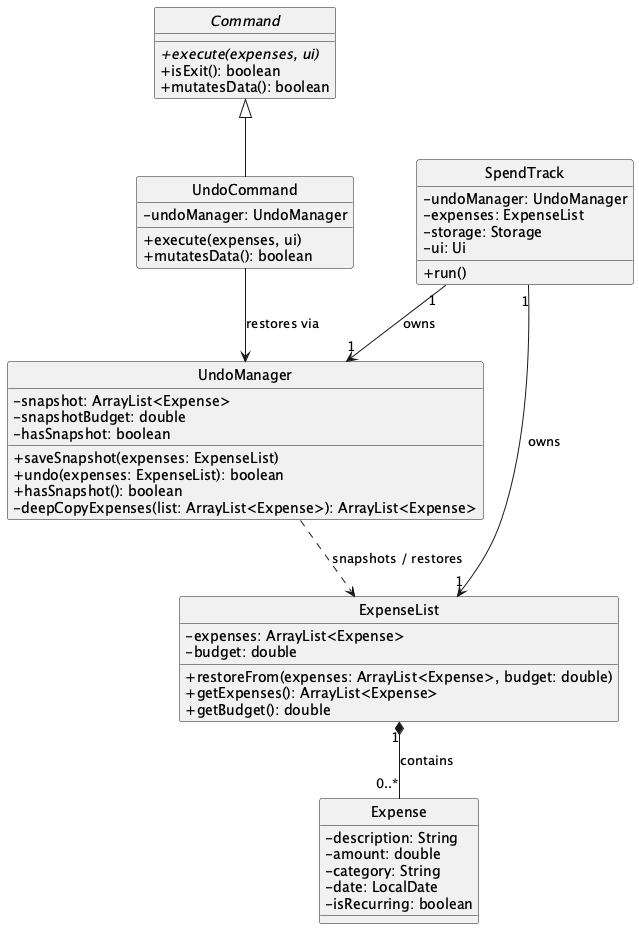
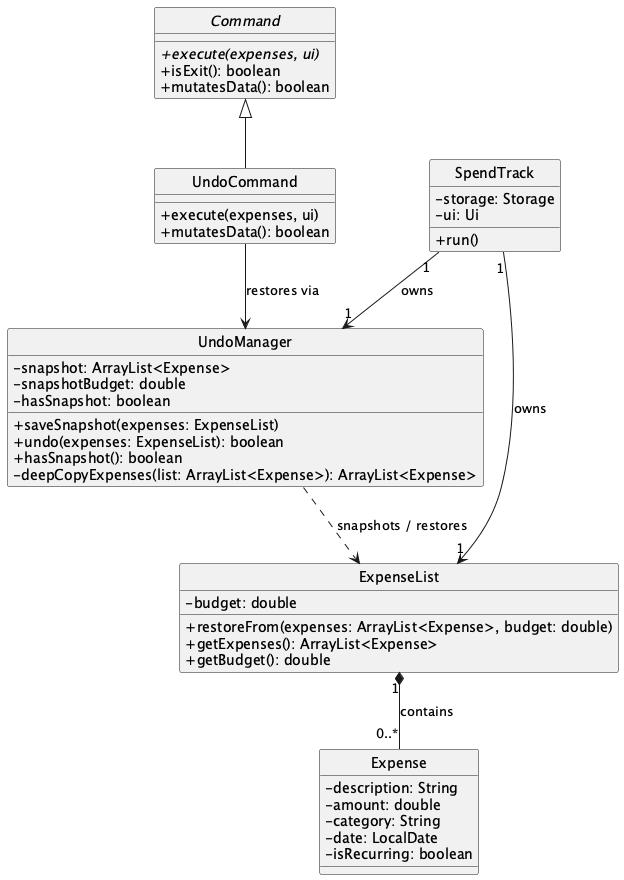
fix: PE-D bug fixes for undo, parser, clear, UG, and UML diagrams
Fix undo stack corruption (#199, #202, #230):
- Add backup/rollback to UndoManager so failed or cancelled commands
  don't overwrite the undo snapshot
- Track whether ClearCommand actually cleared via didClear() flag
- Rollback undo state on SpendTrackException in main loop

Fix input validation (#212, #213):
- Reject extra parameters on total, clear, and undo commands
- ClearCommand now rejects non-yes/no confirmation input

Fix UG documentation (#214, #222):
- Update clear command example to match actual app output

Fix UML diagrams (#145, #146, #155):
- Add <<class>> stereotype to static classes in sequence diagrams
- Remove double-counted associations in UndoClassDiagram
- Add missing activation bars and return arrows in sequence diagrams
- Regenerate affected PNGs

Changed region(s): [[0.0, 0.0, 1.0, 1.0], [0.7917, 0.4295, 0.883, 0.5523]]

diff --git a/src/main/java/seedu/duke/UndoManager.java b/src/main/java/seedu/duke/UndoManager.java
@@ -23,6 +23,12 @@ public class UndoManager {
     // @@author
     private boolean hasSnapshot;
 
+    private ArrayList<Expense> backupSnapshot;
+    private double backupBudget;
+    private ArrayList<String> backupBudgetHistory;
+    private boolean backupHasSnapshot;
+    private boolean hasBackup;
+
     /**
      * Constructs an UndoManager with no stored snapshot.
      */
@@ -33,6 +39,7 @@ public class UndoManager {
         this.snapshotBudgetHistory = null;
         // @@author
         this.hasSnapshot = false;
+        this.hasBackup = false;
     }
 
     /**
@@ -88,6 +95,33 @@ public class UndoManager {
      */
     public boolean hasSnapshot() {
         return hasSnapshot;
+    }
+
+    /**
+     * Backs up the current undo state so it can be restored if a command fails
+     * or does not actually mutate data.
+     */
+    public void backupState() {
+        backupSnapshot = snapshot;
+        backupBudget = snapshotBudget;
+        backupBudgetHistory = snapshotBudgetHistory;
+        backupHasSnapshot = hasSnapshot;
+        hasBackup = true;
+    }
+
+    /**
+     * Restores the undo state from the backup taken by {@link #backupState()}.
+     * Used when a command fails or does not actually mutate data.
+     */
+    public void rollbackState() {
+        if (!hasBackup) {
+            return;
+        }
+        snapshot = backupSnapshot;
+        snapshotBudget = backupBudget;
+        snapshotBudgetHistory = backupBudgetHistory;
+        hasSnapshot = backupHasSnapshot;
+        hasBackup = false;
     }
 
     private ArrayList<Expense> deepCopyExpenses(ArrayList<Expense> original) {

diff --git a/src/main/java/seedu/duke/command/ClearCommand.java b/src/main/java/seedu/duke/command/ClearCommand.java
@@ -17,6 +17,17 @@ public class ClearCommand extends Command {
         logger.setUseParentHandlers(false);
     }
 
+    private boolean cleared = false;
+
+    /**
+     * Returns true if this command actually cleared the expense list.
+     *
+     * @return true if expenses were cleared, false if cancelled or list was empty
+     */
+    public boolean didClear() {
+        return cleared;
+    }
+
     /**
      * Executes the clear command by prompting for confirmation, then removing all expenses.
      *
@@ -42,11 +53,15 @@ public class ClearCommand extends Command {
         if (confirmation.equalsIgnoreCase("yes")) {
             int count = expenses.size();
             expenses.clearAll();
+            cleared = true;
             ui.showMessage("All expenses cleared. (" + count + " expense(s) removed)");
             logger.info("All " + count + " expenses cleared.");
-        } else {
+        } else if (confirmation.equalsIgnoreCase("no")) {
             ui.showMessage("Clear cancelled.");
             logger.info("Clear cancelled by user.");
+        } else {
+            ui.showMessage("Invalid input. Please type 'yes' or 'no'. Clear cancelled.");
+            logger.info("Clear cancelled due to invalid input: " + confirmation);
         }
     }
 

diff --git a/src/main/java/seedu/duke/SpendTrack.java b/src/main/java/seedu/duke/SpendTrack.java
@@ -2,6 +2,7 @@ package seedu.duke;
 
 import java.util.logging.Logger;
 
+import seedu.duke.command.ClearCommand;
 import seedu.duke.command.Command;
 
 /**
@@ -47,15 +48,19 @@ public class SpendTrack {
                 Command command = Parser.parse(input, undoManager);
                 if (command.mutatesData() && !(command instanceof
                         seedu.duke.command.UndoCommand)) {
+                    undoManager.backupState();
                     undoManager.saveSnapshot(expenses);
                 }
-                // @@author
                 command.execute(expenses, ui);
-                if (command.mutatesData()) {
+                if (command instanceof ClearCommand && !((ClearCommand) command).didClear()) {
+                    undoManager.rollbackState();
+                } else if (command.mutatesData()) {
                     storage.save(expenses);
                 }
+                // @@author
                 isRunning = !command.isExit();
             } catch (SpendTrackException e) {
+                undoManager.rollbackState();
                 logger.warning("SpendTrackException caught: " + e.getMessage());
                 ui.showError(e.getMessage());
             }

diff --git a/src/main/java/seedu/duke/Parser.java b/src/main/java/seedu/duke/Parser.java
@@ -104,6 +104,9 @@ public class Parser {
         case "find":
             return parseFindCommand(parts.length > 1 ? parts[1] : "");
         case "total":
+            if (parts.length > 1) {
+                throw new SpendTrackException("Usage: total");
+            }
             return new TotalCommand();
         // @@author AbhijitBalajee
         case "list":
@@ -128,6 +131,9 @@ public class Parser {
         case "goal":
             return parseGoalCommand(parts.length > 1 ? parts[1] : "");
         case "clear":
+            if (parts.length > 1) {
+                throw new SpendTrackException("Usage: clear");
+            }
             return new ClearCommand();
         case "export":
             if (parts.length > 1 && parts[1].trim().equalsIgnoreCase("csv")) {
@@ -136,6 +142,9 @@ public class Parser {
             throw new SpendTrackException("Usage: export csv");
         // @@author
         case "undo":
+            if (parts.length > 1) {
+                throw new SpendTrackException("Usage: undo");
+            }
             if (undoManager == null) {
                 throw new SpendTrackException("Undo is not available.");
             }

diff --git a/docs/UserGuide.md b/docs/UserGuide.md
@@ -580,7 +580,7 @@ Format: `clear`
 Example:
 ```
 ____________________________________________________________
- Are you sure you want to delete all expenses? This cannot be undone. (yes/no):
+ Are you sure you want to delete all expenses? You can undo this with 'undo'. (yes/no):
 ____________________________________________________________
 > yes
 ____________________________________________________________
